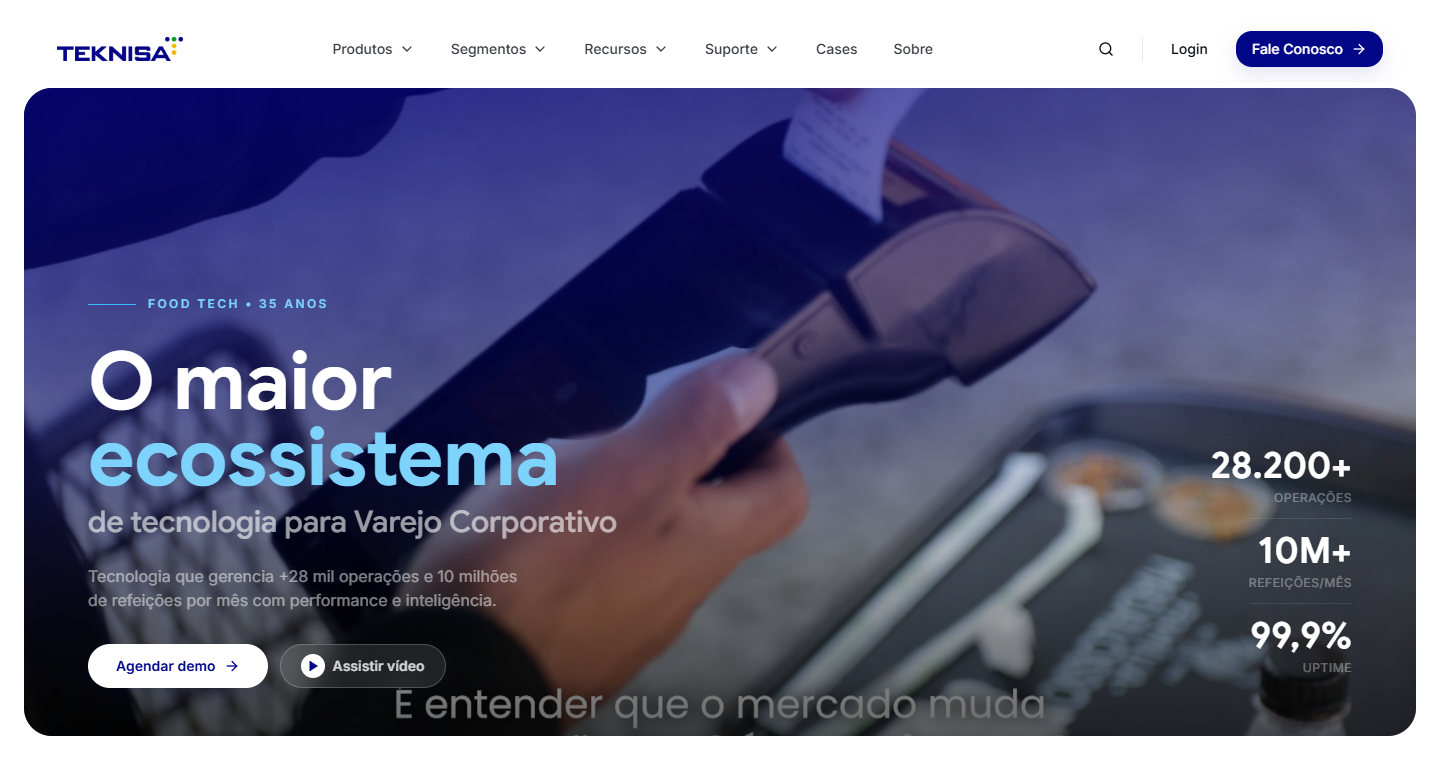
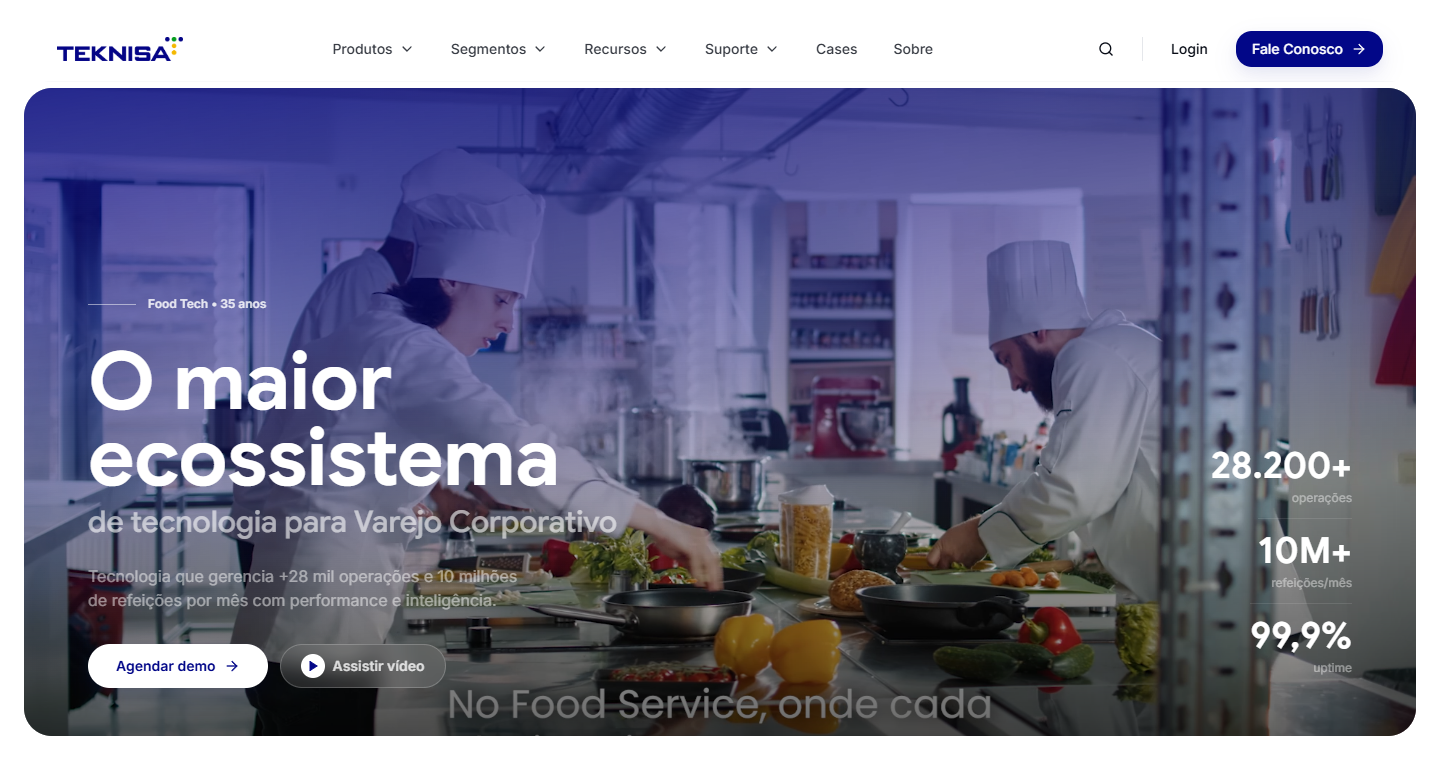
hero: texto todo branco, sem caixa-alta espacada e sem o azul claro sky

diff --git a/src/components/sections/Hero.tsx b/src/components/sections/Hero.tsx
@@ -88,8 +88,8 @@ export function Hero() {
                   animate={{ opacity: 1, x: 0 }}
                   transition={{ delay: 0.05, duration: 0.6, ease: EASE }}
                 >
-                  <div className="h-px w-8 bg-sky-400 sm:w-12" />
-                  <span className="text-[10px] font-semibold uppercase tracking-[0.2em] text-sky-300 sm:text-xs">
+                  <div className="h-px w-8 bg-white/50 sm:w-12" />
+                  <span className="text-[11px] font-semibold text-white/85 sm:text-xs">
                     Food Tech &bull; 35 anos
                   </span>
                 </motion.div>
@@ -108,7 +108,7 @@ export function Hero() {
                     O maior
                   </motion.span>
                   <motion.span
-                    className="block text-[2.75rem] text-sky-300 sm:text-[3.5rem] lg:text-[4rem] xl:text-[5rem] 2xl:text-[5.5rem]"
+                    className="block text-[2.75rem] text-white sm:text-[3.5rem] lg:text-[4rem] xl:text-[5rem] 2xl:text-[5.5rem]"
                     initial={{ opacity: 0, y: "100%" }}
                     animate={{ opacity: 1, y: 0 }}
                     transition={{ duration: 0.8, delay: 0.25, ease: EASE }}
@@ -177,9 +177,7 @@ export function Hero() {
                     <p className="font-display text-3xl font-bold leading-none text-white xl:text-4xl">
                       {stat.value}
                     </p>
-                    <p className="mt-1 text-[10px] uppercase tracking-wider text-white/35 xl:text-xs">
-                      {stat.label}
-                    </p>
+                    <p className="mt-1 text-[11px] text-white/45 xl:text-xs">{stat.label}</p>
                   </div>
                 ))}
               </motion.div>
@@ -195,9 +193,7 @@ export function Hero() {
               {STATS.map((s) => (
                 <div key={s.label}>
                   <p className="font-display text-xl font-bold leading-none text-white">{s.value}</p>
-                  <p className="mt-0.5 text-[9px] uppercase tracking-wider text-white/40">
-                    {s.label}
-                  </p>
+                  <p className="mt-0.5 text-[10px] text-white/45">{s.label}</p>
                 </div>
               ))}
             </motion.div>
@@ -230,9 +226,7 @@ export function Hero() {
             >
               <div className="flex items-center justify-between border-b border-slate-200 bg-white px-4 py-3 sm:px-5">
                 <div>
-                  <p className="text-[10px] font-semibold uppercase tracking-[0.22em] text-primary/65">
-                    Vídeo institucional
-                  </p>
+                  <p className="text-xs font-semibold text-primary/70">Vídeo institucional</p>
                   <h2 className="mt-1 font-display text-lg font-semibold text-slate-950 sm:text-xl">
                     Teknisa Vision
                   </h2>

diff --git a/src/components/sections/SectionPlaceholder.tsx b/src/components/sections/SectionPlaceholder.tsx
@@ -38,7 +38,7 @@ export function SectionPlaceholder({
     >
       <div className="section-container flex min-h-[40vh] flex-col items-center justify-center py-20 text-center">
         <span
-          className={`mb-3 text-sm font-semibold ${dark ? "text-sky-300" : "text-primary"}`}
+          className={`mb-3 text-sm font-semibold ${dark ? "text-white/80" : "text-primary"}`}
         >
           {String(index).padStart(2, "0")} {signature ? "· ★ momento-assinatura" : ""}
         </span>

diff --git a/CLAUDE.md b/CLAUDE.md
@@ -55,8 +55,9 @@ links, ênfases e títulos). Seções **dark** apenas pontuais/estratégicas.
 - **Azul Teknisa (cor de marca real, extraída do Teknisa Vision):** `#040486`
   (HSL `238 97% 27%`) → token semântico `--primary` / classes `bg-primary`, `text-primary`.
 - **Escala `teknisa` 50–900** disponível no Tailwind (`text-teknisa-600` etc.) — a marca `#040486`
-  fica em `teknisa-800`. Use nas próximas seções; o azul claro/ciano de acento usa o `sky` nativo
-  (ex.: a palavra cinética "ecossistema" no hero é `text-sky-300`).
+  fica em `teknisa-800`. **Evitar o azul claro `sky`** como acento: o usuário acha feio (já foi
+  removido do hero, onde o texto agora é todo **branco**). Em seções dark, usar branco/translúcido
+  ou tons da escala `teknisa`.
 - **Tokens semânticos via CSS vars** (estilo shadcn) em `src/styles/index.css`: `background`,
   `foreground`, `primary` (+ `light`/`dark`), `secondary`, `muted`, `accent`, `card`, `popover`,
   `border`, `input`, `ring`, `success`, `destructive`. Suportam **dark mode por `class`**